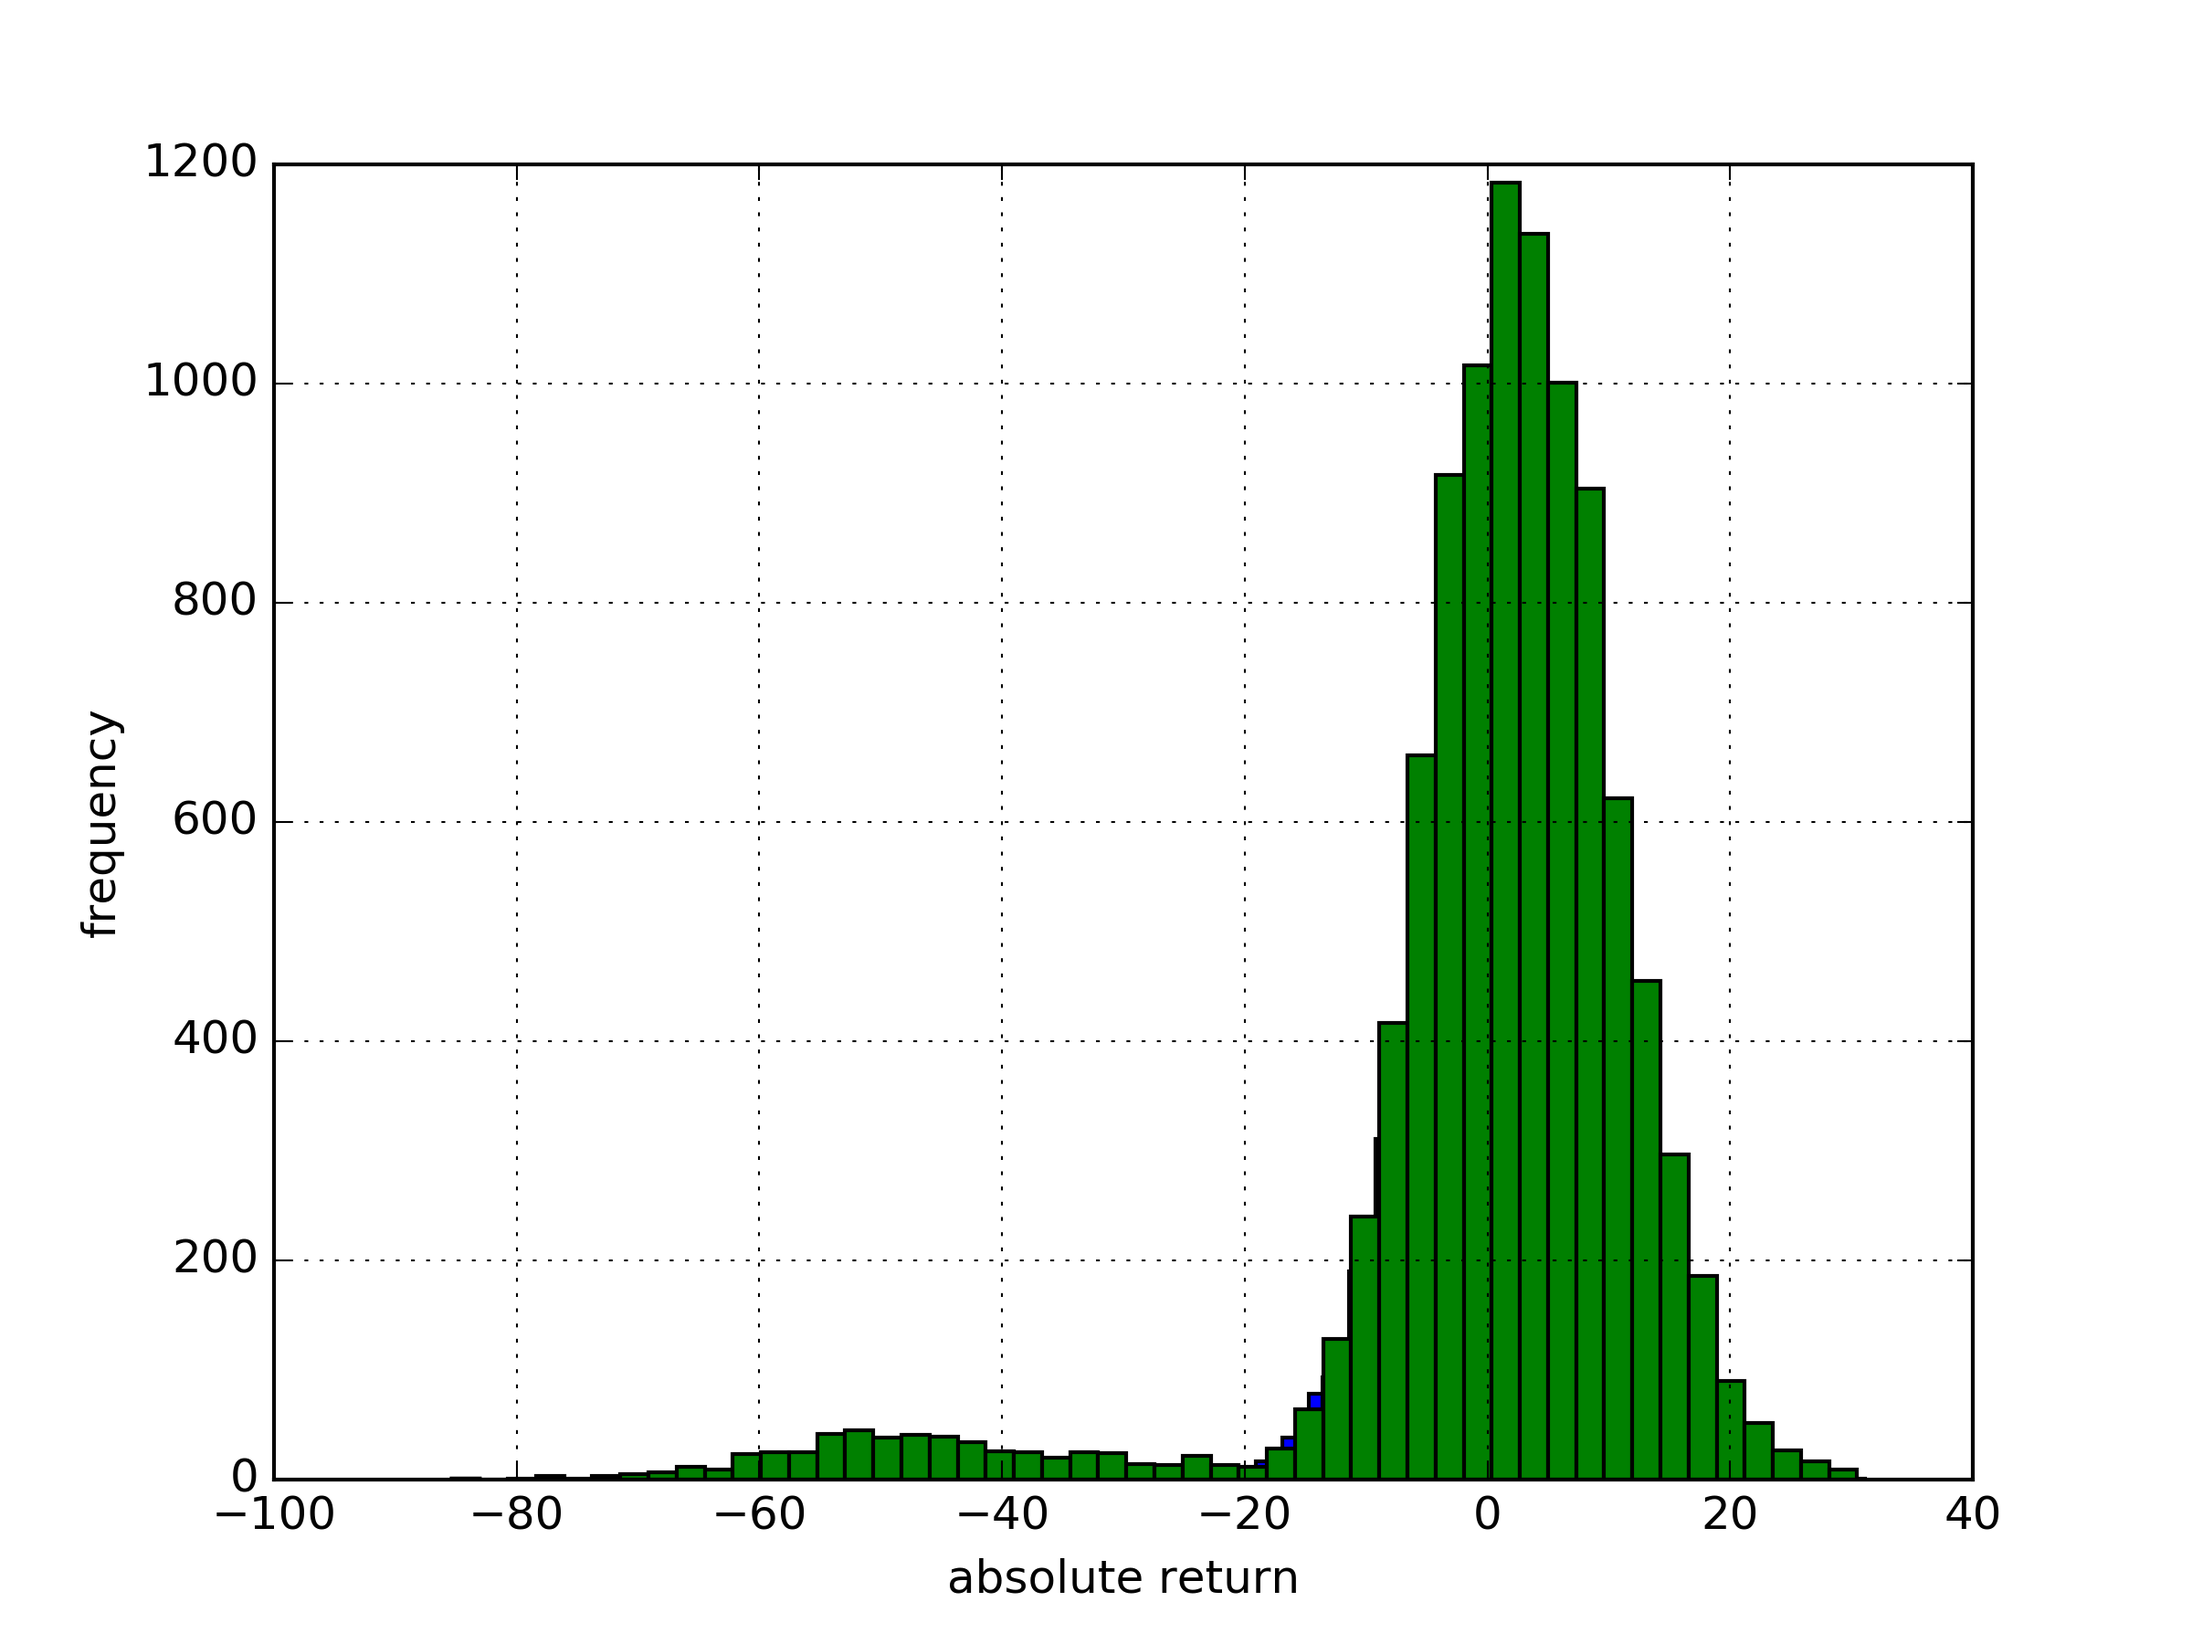
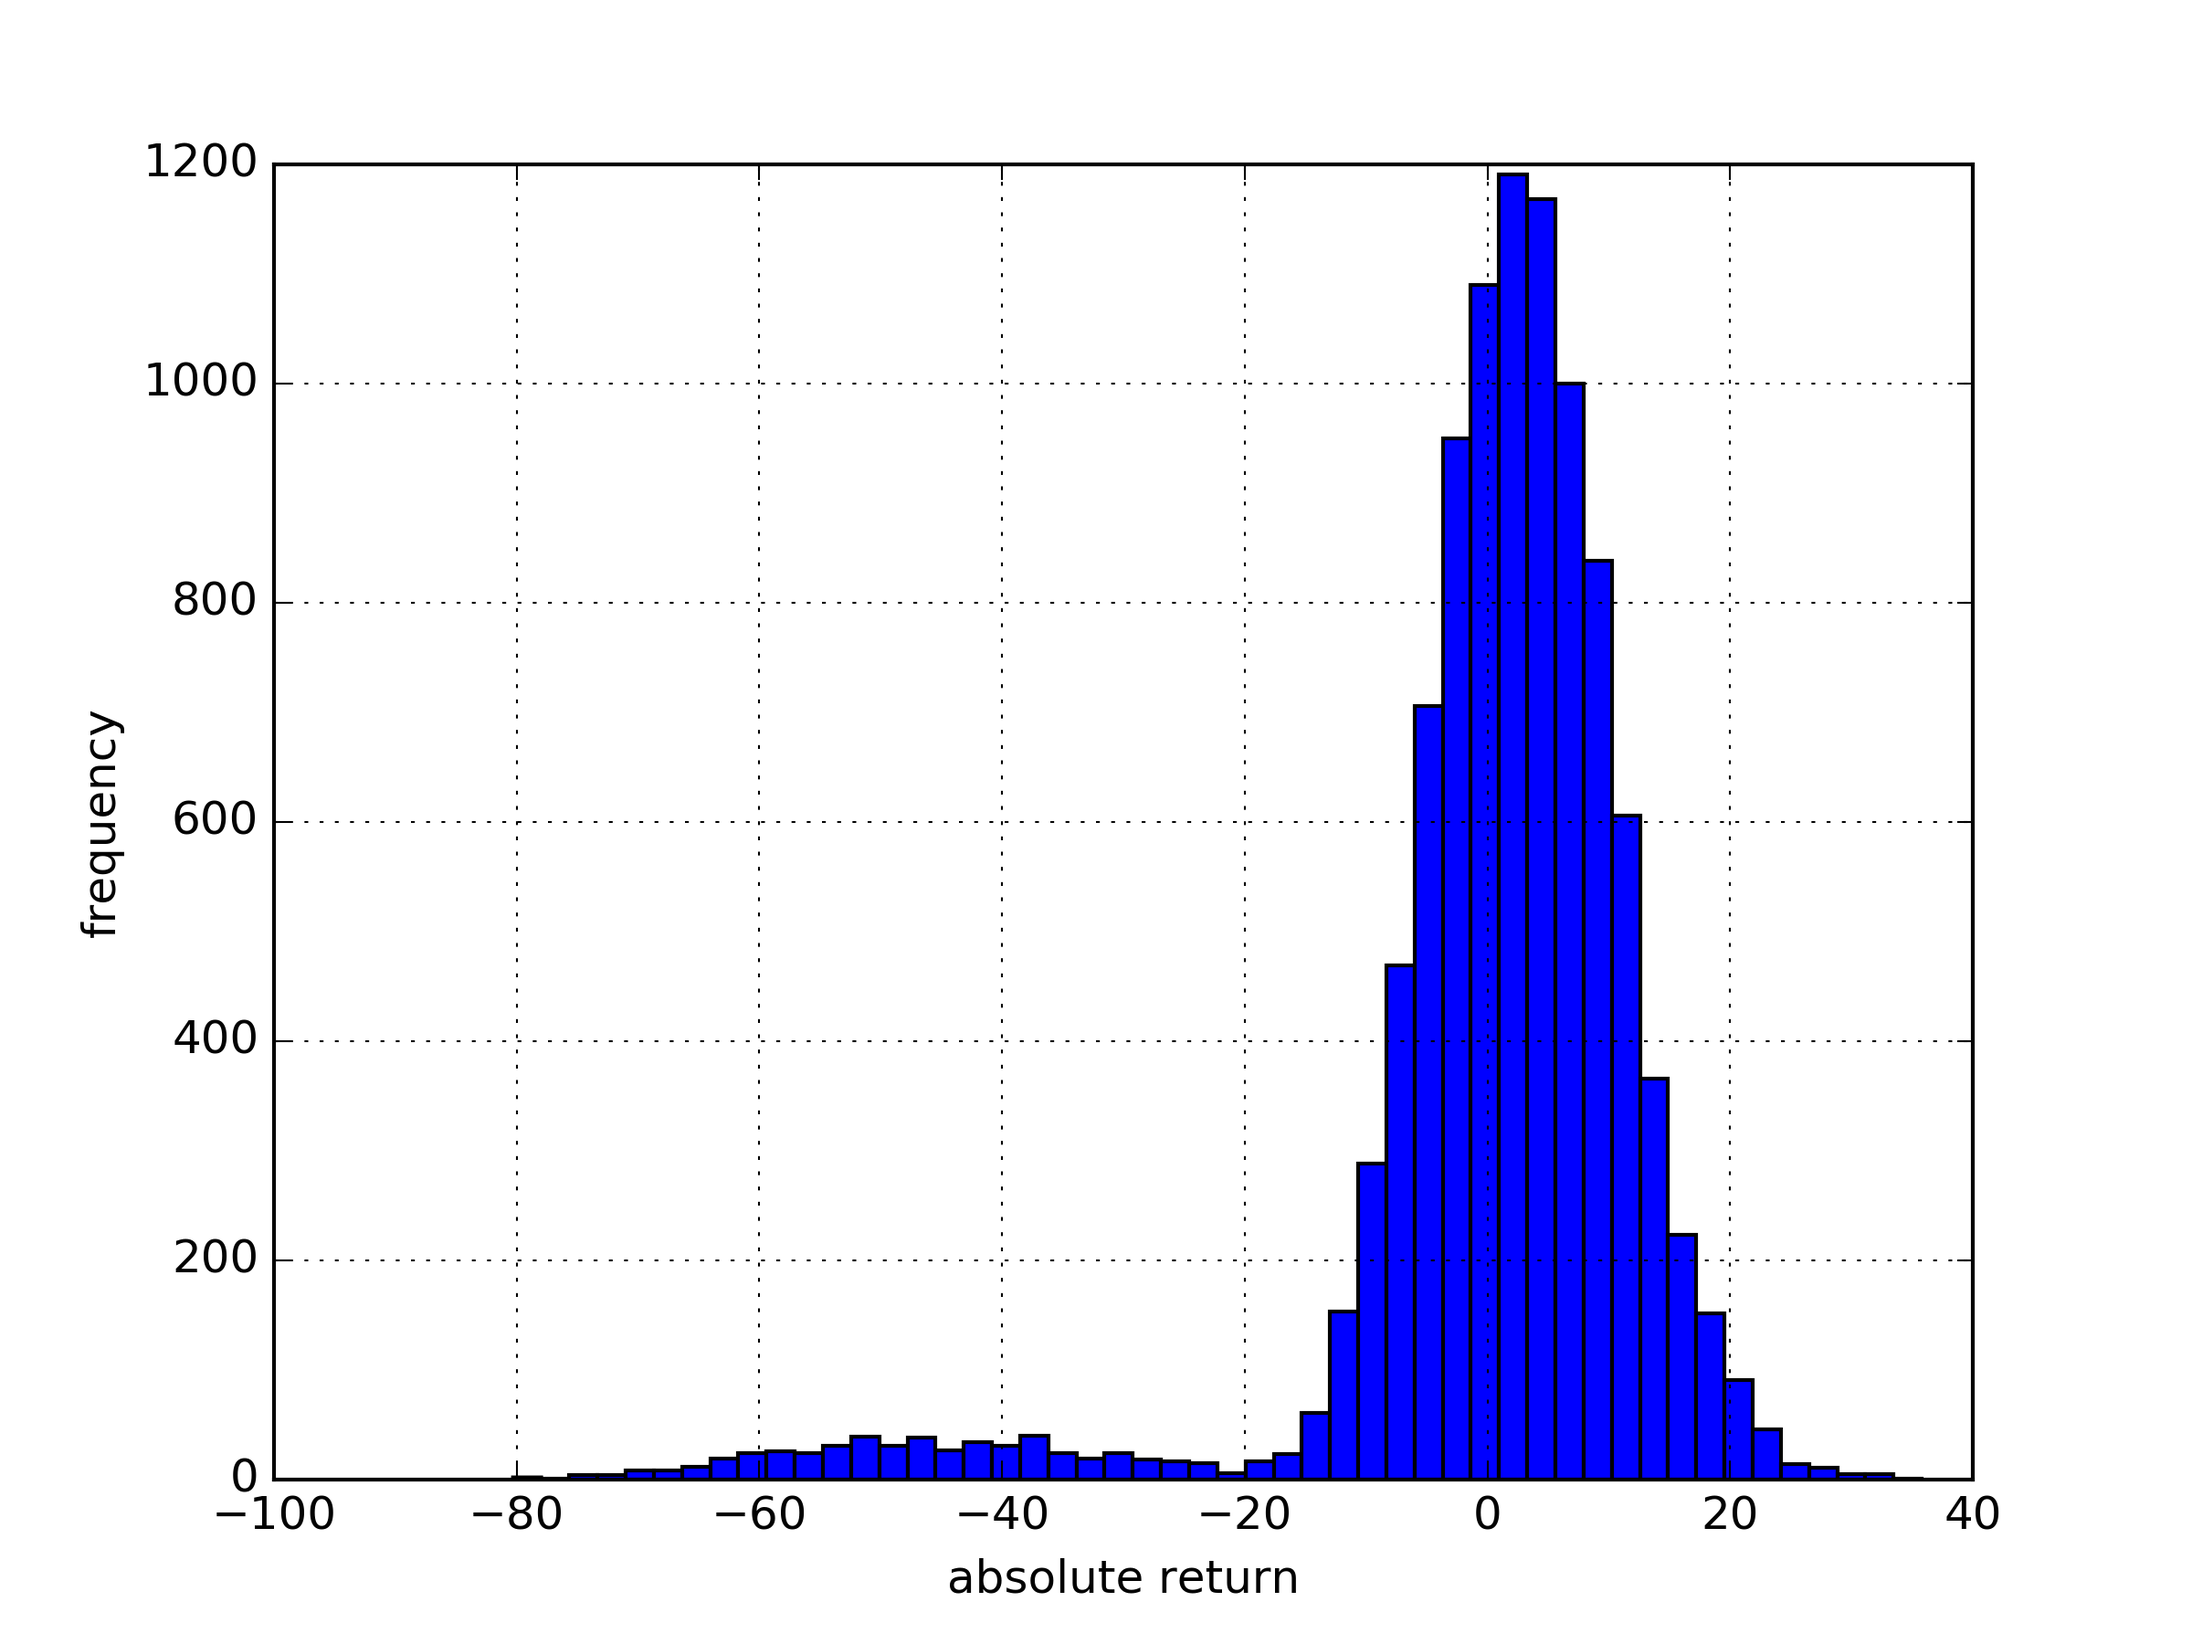
starting ch11

Changed region(s): [[0.2812, 0.0933, 0.8438, 0.9022]]

diff --git a/10ch_scrap.py b/10ch_scrap.py
@@ -594,6 +594,8 @@ def VaR():
     plt.xlabel('absolute return')
     plt.ylabel('frequency')
     plt.grid(True)
+    plt.savefig(PATH + 'VaR0.png', dpi=300)
+    plt.close()
 
     percs = [0.01, 0.1, 1., 2.5, 5.0, 10.0]
     var = scs.scoreatpercentile(R_gbm, percs)
@@ -703,5 +705,5 @@ if __name__ == '__main__':
     # jump_diffusion()
     # var_reduction()
     # valuation()
-    # VaR()
-    credit_adjustments()
+    VaR()
+    # credit_adjustments()

diff --git a/11ch_scrap.py b/11ch_scrap.py
@@ -1,0 +1,14 @@
+import sys, pdb
+sys.path.append('/usr/share/doc')
+sys.path.append("/usr/lib/python3/dist-packages")
+sys.path.append("/usr/local/lib/python3.4/dist-packages")
+sys.path.append("/usr/local/lib/python2.7/dist-packages")
+import matplotlib as mpl
+mpl.use('Agg')
+import numpy as np
+import numpy.random as npr
+import matplotlib.pyplot as plt
+from utils import timeme
+
+PATH = '/home/ubuntu/workspace/python_for_finance/png/ch11/'
+
